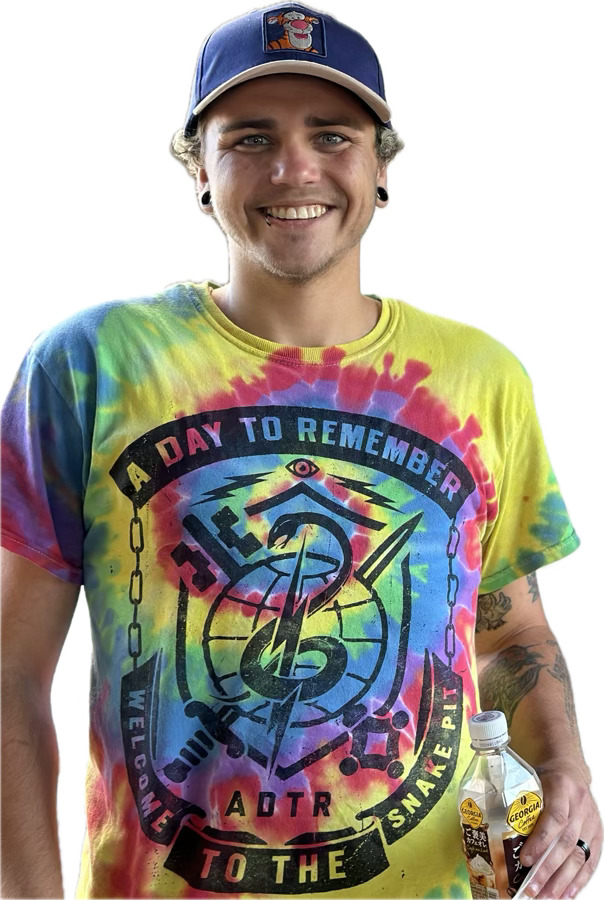
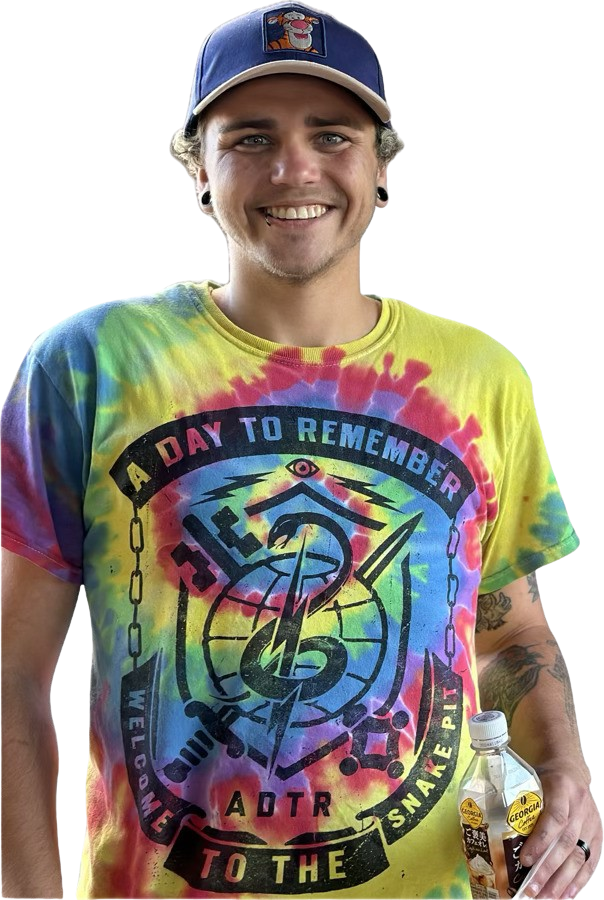
fixed dependencies

diff --git a/src/Home.css b/src/Home.css
@@ -10,19 +10,19 @@
 }
   
   .profile-image {
-    width: 150px;
-    height: 150px;
-    border-radius: 50%;
-    border: 3px solid #8db8b8;
+    width: 240px;
+    height: 340px;
+    /* border-radius: 70%;
+    border: 3px solid #8db8b8; */
     opacity: inherit;
-    margin-bottom: 20px;
+    margin-bottom: 10px;
     object-fit: cover;
   }
   
   .name {
     display: inline-block;
     font-size: 2.5rem;
-    background: linear-gradient(90deg, #3431ec, hsl(222, 64%, 63%));
+    background: linear-gradient(90deg, #3431ec, hsl(222, 56%, 56%));
     -webkit-background-clip: text;
     -webkit-text-fill-color: transparent;
     transition: transform 0.2s ease, background 0.2s ease;

diff --git a/src/Home.js b/src/Home.js
@@ -1,7 +1,7 @@
 // Home.js
 import React from 'react';
 import './Home.css';
-import profilePicture from './Assets/profilepicture.jpg'
+import aboutPicture from './Assets/aboutpicture.jpg'
 
 const Home = () => {
   const handleViewAboutMe = () => {
@@ -10,7 +10,7 @@ const Home = () => {
 
   return (
     <div className="home">
-      <img src={profilePicture} alt="Dakota Campbell" className="profile-image" />
+      <img src={aboutPicture} alt="Dakota Campbell" className="profile-image" />
       <h1>
         Hello, I'm <span className="name">Dakota</span>.
       </h1>
